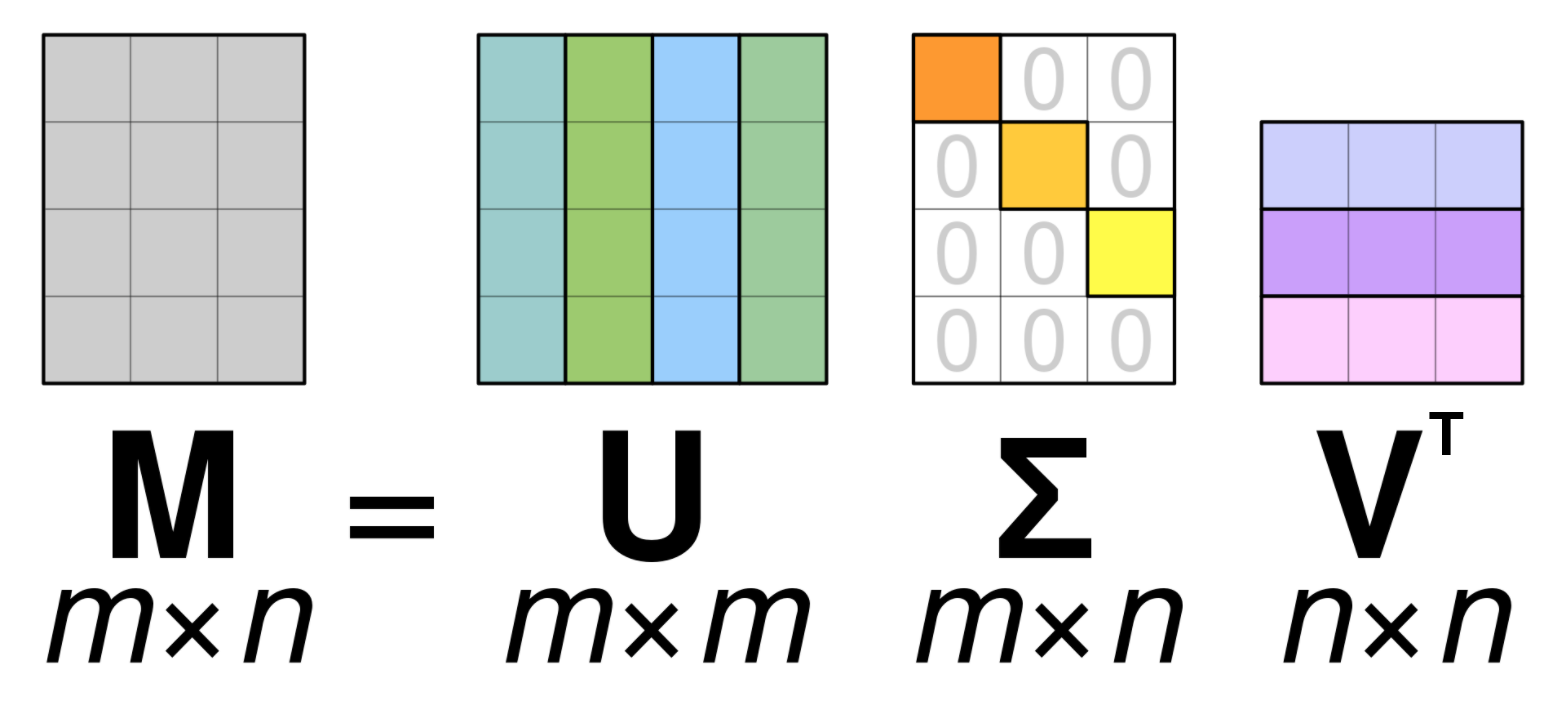
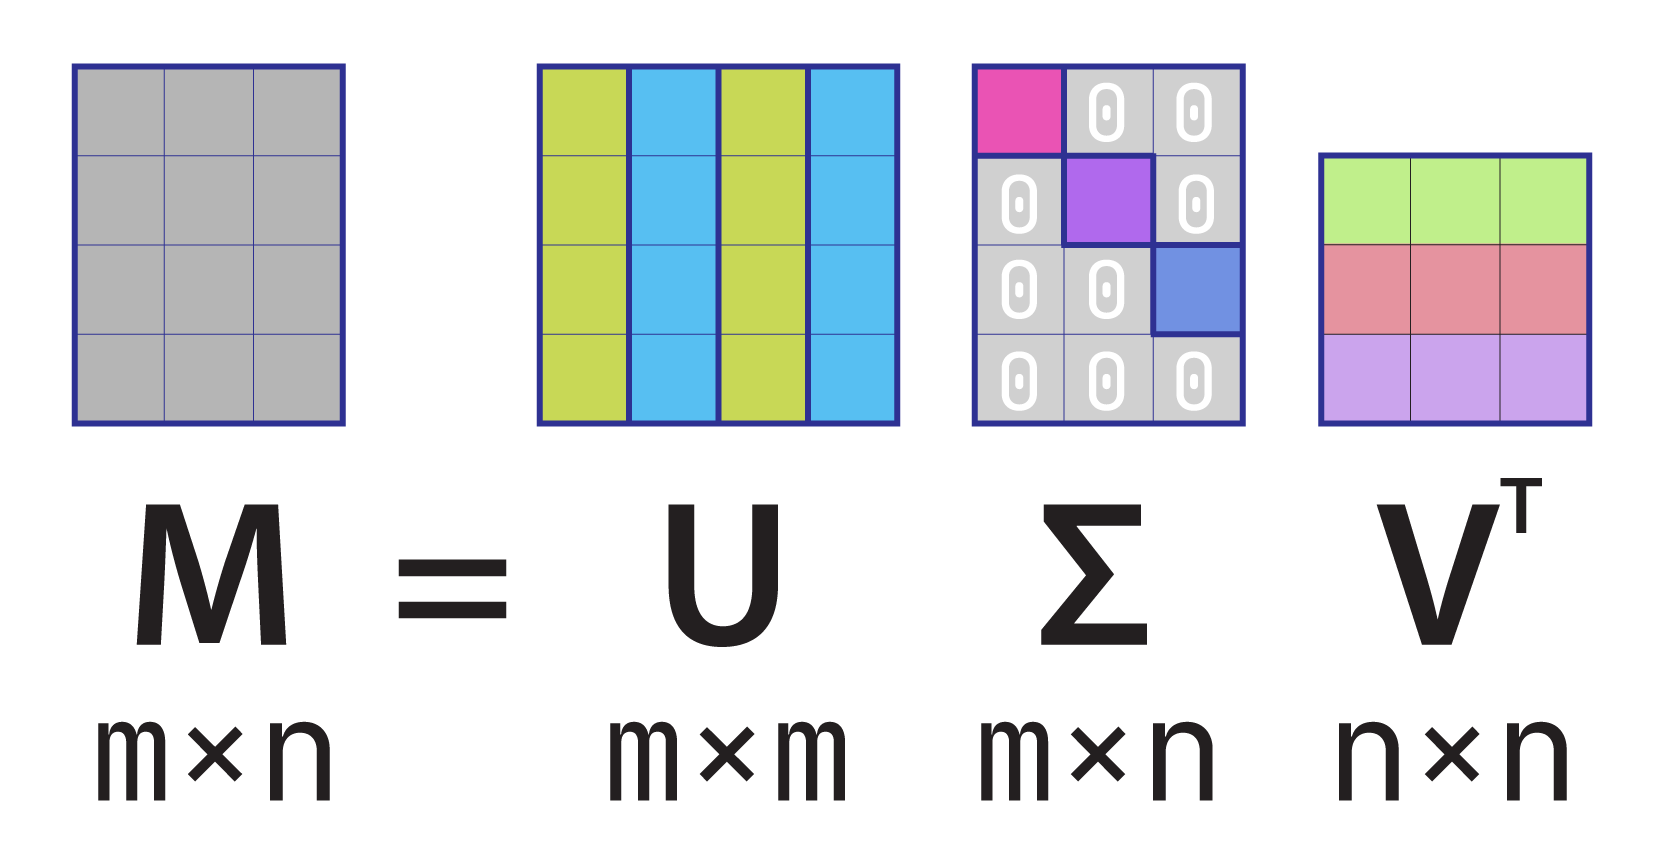
Replaced svd image with our own

diff --git a/Projects/SVD/Singular Value Decomposition/task.md b/Projects/SVD/Singular Value Decomposition/task.md
@@ -37,4 +37,4 @@ img {
   margin-right: auto;
 }
 </style>
-<img src="svd.png" alt="svd" width="400">
+<img src="svd.png" alt="svd" width="500">
